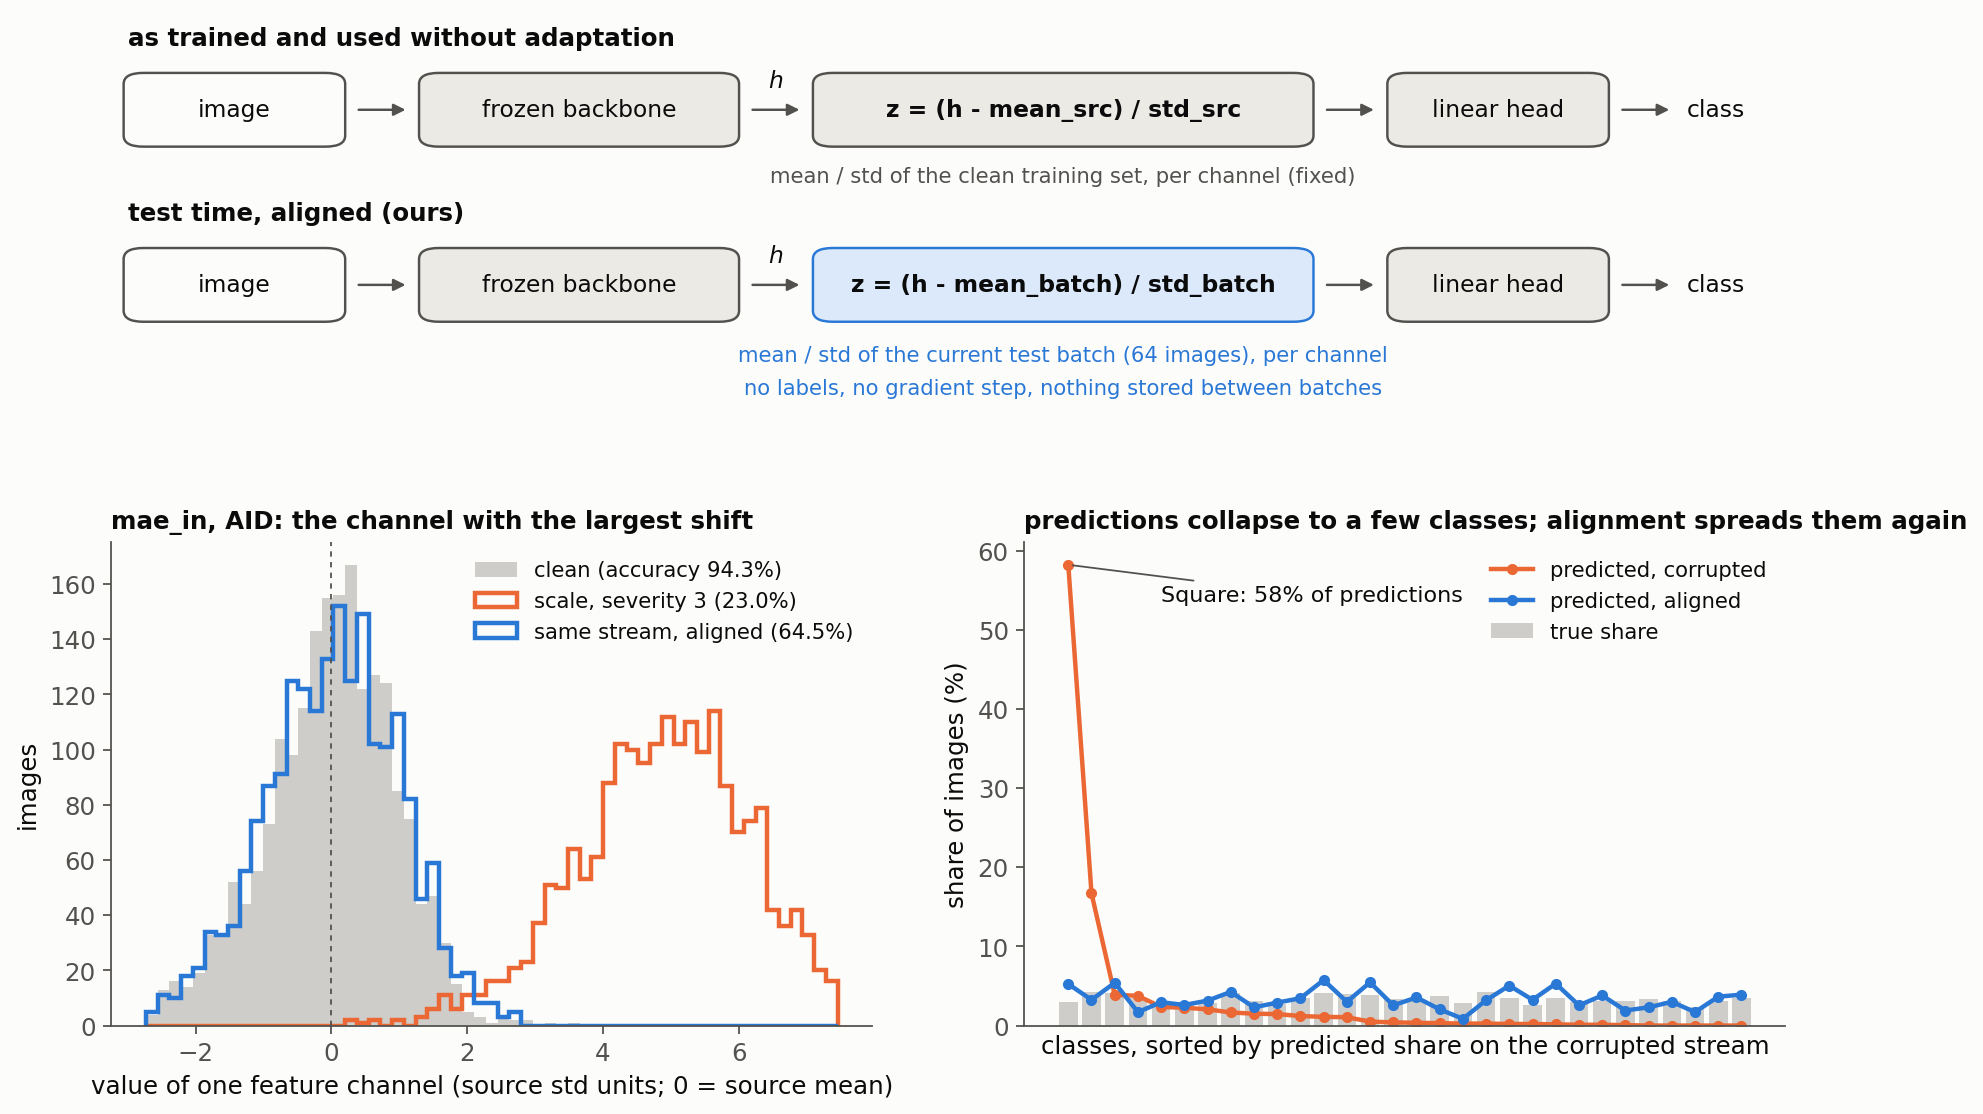
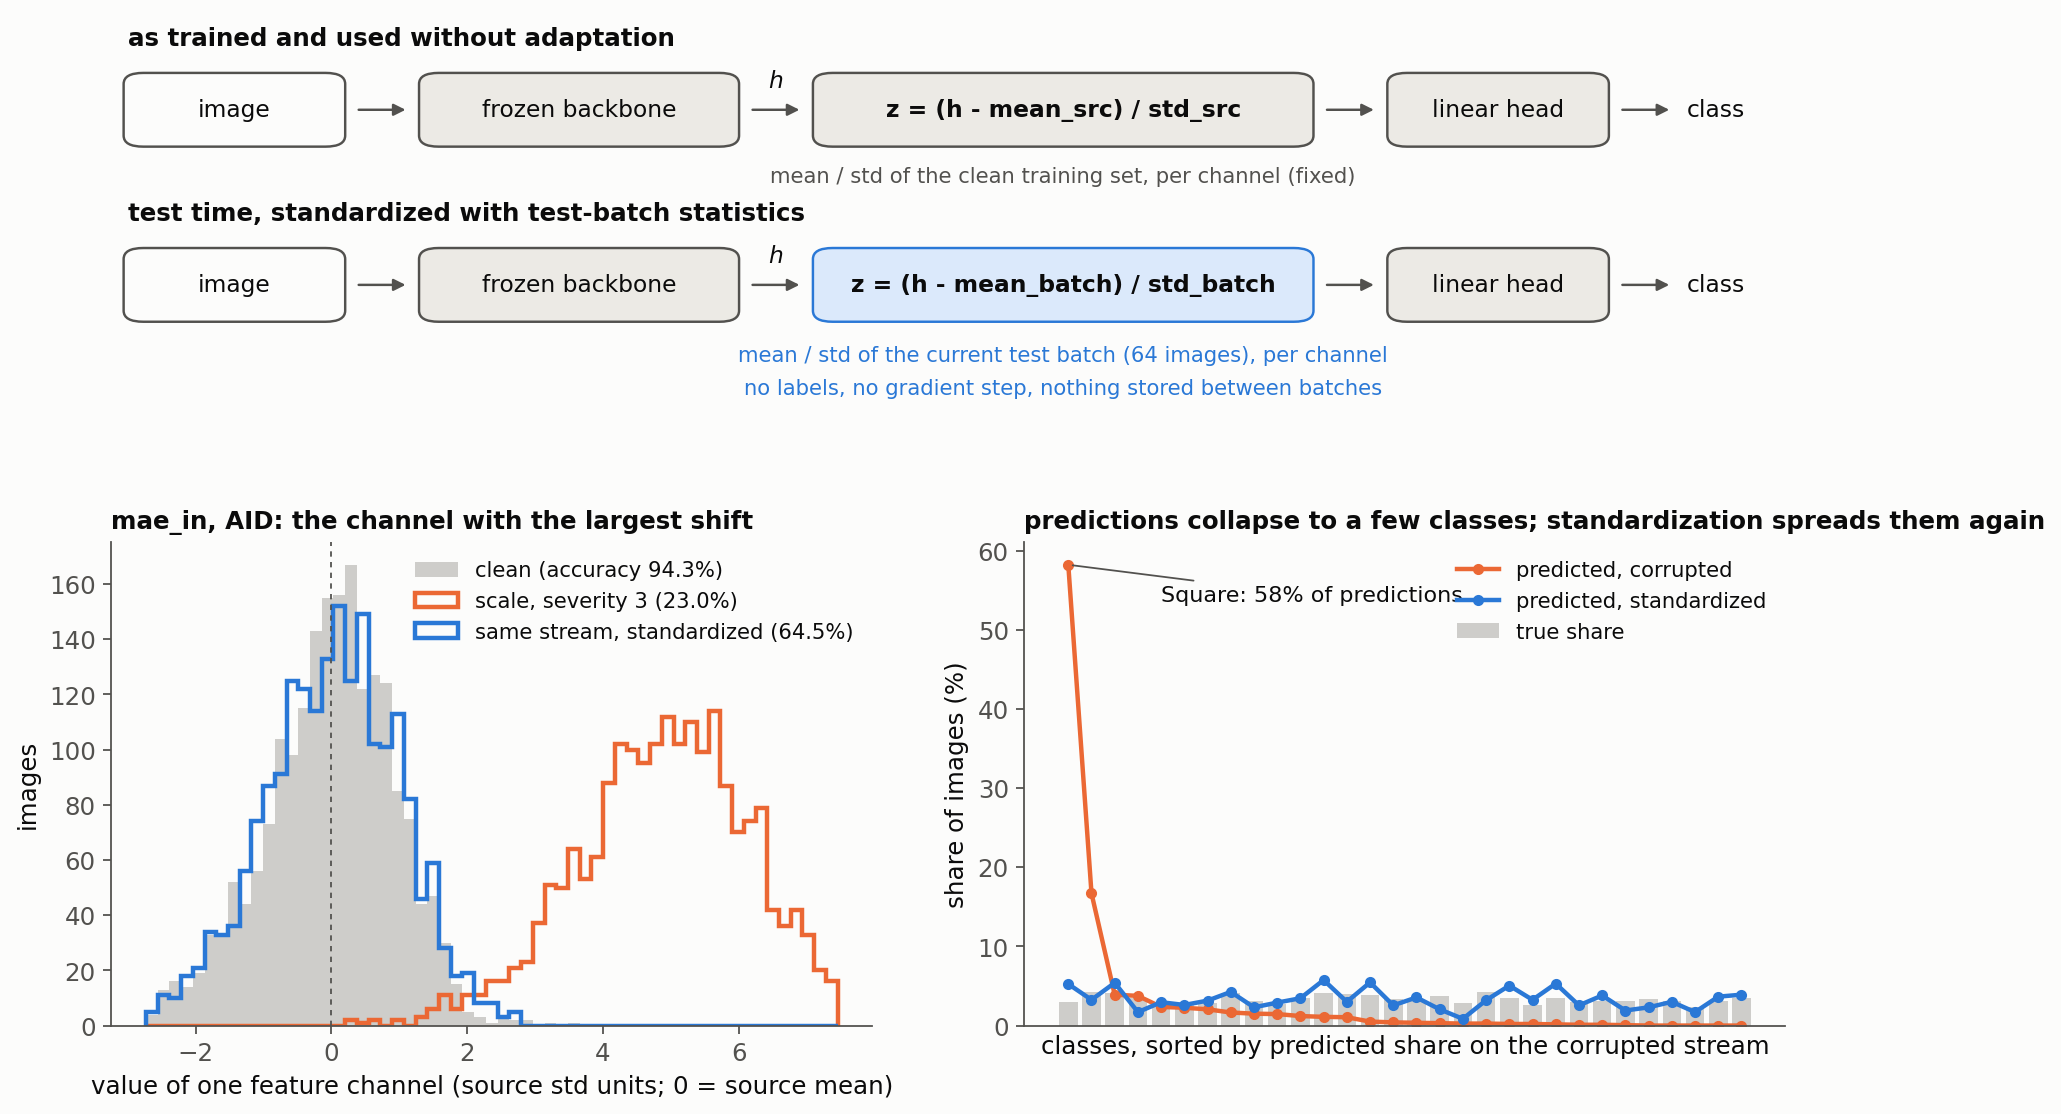
Midterm: name the classification alignment 'head-input standardization' in figures and tables
fig1's green bars are head-input standardization only (no pixel, block or BN alignment);
label and footnote say so. fig9 names the two segmentation alignments by position.
A terminology table in section 4 separates the three alignments.

diff --git a/repro/scripts/analysis/plot_midterm_figs.py b/repro/scripts/analysis/plot_midterm_figs.py
@@ -4,12 +4,12 @@
   fig2_estimation.png     : label-free accuracy estimates vs true accuracy on the 2,040 corrupted streams (T3)
   fig3_signals.png        : confidence vs accuracy and flip vs accuracy, three backbones on RESISC45-C
   fig4_em_phases.png      : entropy minimisation over 2,000 steps, tent vs DSBR: accuracy and predicted classes (T9)
-  fig5_headroom.png       : per corruption: as is -> aligned -> head re-fitted with labels -> clean (T12)
+  fig5_headroom.png       : per corruption: as is -> head-input standardization -> head re-fitted with labels -> clean (T12)
   fig6_pairs.png          : satellite minus generic pretraining for the six matched pairs (T10)
   fig7_blur_aug.png       : drop under Gaussian blur, backbones with / without blur augmentation (T7)
   fig8_corruptions.png    : one AID image under the 12 REOBench corruptions, grouped by acquisition stage (T6)
   fig9_seg.png            : Potsdam mIoU per corruption (12) for none / BN / input / input + BN alignment (T5)
-  fig10_alignment.png     : what head-input alignment does: pipeline, one feature channel, prediction share per class
+  fig10_alignment.png     : what head-input standardization does: pipeline, one feature channel, prediction share per class
   fig11_feature_geometry.png : clean features of two backbones: accuracy by read-out and three 2-D views
   fig12_shift_alignment.png  : clean / corrupted / aligned features along the common shift, two backbones
 Labels are in English (no Korean font on the server). Colours: dataviz reference palette, light surface.
@@ -69,8 +69,8 @@ def save(fig, name):
 
 def fig1():
     M = [("none", "no adaptation", GREY), ("tent", "Tent", ORANGE), ("sar", "SAR", ORANGE), ("eata", "EATA", ORANGE),
-         ("dsbr", "DSBR", BLUE), ("flipf", "flip filter", BLUE), ("none_al", "alignment only (no learning)", AQUA),
-         ("tent_al", "alignment + Tent", AQUA), ("dsbr_al", "alignment + DSBR", AQUA)]
+         ("dsbr", "DSBR", BLUE), ("flipf", "flip filter", BLUE), ("none_al", "head-input standardization only", AQUA),
+         ("tent_al", "standardization + Tent", AQUA), ("dsbr_al", "standardization + DSBR", AQUA)]
     fig, axes = plt.subplots(1, 2, figsize=(12, 4.6), sharey=True)
     for ax, (ds, title) in zip(axes, DS):
         V = np.array([[json.load(open(E / "2026-11-17_fm_tta" / ds / m / f"{k}.json"))["avg"] for m in ORDER] for k, _, _ in M])
@@ -84,8 +84,12 @@ def fig1():
         ax.set_xlabel("accuracy on corrupted streams (%), dots = 17 backbones"); ax.set_title(title, loc="left")
         ax.tick_params(axis="y", length=0)
     hs = [plt.Rectangle((0, 0), 1, 1, color=c, alpha=0.6, label=n) for n, c in (("entropy-based", ORANGE), ("no confidence used", BLUE),
-                                                                              ("statistics alignment", AQUA))]
+                                                                              ("head-input standardization (no learning)", AQUA))]
     fig.legend(handles=hs, loc="upper center", ncol=3, bbox_to_anchor=(0.5, 1.04))
+    fig.text(0.01, -0.06, "Head-input standardization: the feature that enters the linear head is standardized per channel with the mean / std of the "
+             "current test batch (64 images). Nothing else is changed:\nno input-pixel alignment, no alignment inside the backbone, no BN. "
+             "\"+ Tent\" / \"+ DSBR\": that method updates the backbone norm layers, and predictions use the standardized head input.",
+             ha="left", va="top", fontsize=9.5, color=INK2)
     save(fig, "fig1_methods.png")
 
 
@@ -133,7 +137,7 @@ def fig3():
     for c, m in enumerate(models):
         G = sig(m, "r45"); K = [k for k in G if k != "clean"]
         acc = np.array([G[k]["acc"] for k in K])
-        for r, (key, lab, col) in enumerate((("ac", "mean confidence (%)", ORANGE), ("flip", "flip rate after alignment (%)", BLUE))):
+        for r, (key, lab, col) in enumerate((("ac", "mean confidence (%)", ORANGE), ("flip", "flip rate after head-input standardization (%)", BLUE))):
             x = np.array([G[k][key] for k in K]); ax = axes[r, c]
             ax.scatter(x, acc, s=22, color=col, edgecolors=SURF, linewidths=0.4)
             ax.set_xlabel(lab); ax.set_ylim(0, 100)
@@ -192,7 +196,7 @@ def fig5():
         ax.set_xlim(28, 100); ax.set_xlabel("accuracy (%), mean of 17 backbones, severity 3 and 5"); ax.set_title(title, loc="left")
         ax.grid(axis="x", color=GRID, lw=0.8); ax.set_axisbelow(True)
     hs = [plt.Line2D([], [], marker="o", ls="", ms=7, mfc=GREY, mec=SURF, label="as is"),
-          plt.Line2D([], [], marker="o", ls="", ms=7, mfc=AQUA, mec=SURF, label="alignment (what we use; no labels)"),
+          plt.Line2D([], [], marker="o", ls="", ms=7, mfc=AQUA, mec=SURF, label="head-input standardization (what we use; no labels)"),
           plt.Line2D([], [], marker="o", ls="", ms=7, mfc=BLUE, mec=SURF, label="upper bound, not a method: head re-fitted WITH labels of the corrupted stream")]
     fig.legend(handles=hs, loc="upper center", ncol=3, bbox_to_anchor=(0.5, 1.03), fontsize=10)
     save(fig, "fig5_headroom.png")
@@ -271,14 +275,14 @@ def fig8(cls="Port", sev=3):
 
 def fig9():
     # 12 corruptions (8 released + 4 we generated), grouped by what responds
-    groups = (("input alignment recovers", (("brightness_contrast", "brightness /\ncontrast"), ("haze", "haze"))),
-              ("BN alignment helps", (("gaussian_noise", "Gaussian\nnoise"), ("salt_and_pepper_noise", "salt &\npepper"),
+    groups = (("input-pixel alignment recovers", (("brightness_contrast", "brightness /\ncontrast"), ("haze", "haze"))),
+              ("decoder-BN batch statistics help", (("gaussian_noise", "Gaussian\nnoise"), ("salt_and_pepper_noise", "salt &\npepper"),
                                       ("compression_artifacts", "JPEG"), ("data_gaps", "data\ngaps *"))),
               ("small drop, nothing helps", (("gaussian_blur", "Gaussian\nblur"), ("motion_blur", "motion\nblur"), ("clouds", "clouds"),
                                              ("scale_image", "scale *"), ("rotate", "rotate *"), ("translate_image", "translate *"))))
     cor = [c for _, g in groups for c, _ in g]
     lab = [l for _, g in groups for _, l in g]
-    V = (("none", "no adaptation", GREY), ("bn", "BN alignment", BLUE), ("isa", "input alignment", ORANGE), ("isa_bn", "input + BN alignment", AQUA))
+    V = (("none", "no adaptation", GREY), ("bn", "decoder BN: test-batch statistics", BLUE), ("isa", "input pixels aligned to train statistics", ORANGE), ("isa_bn", "both", AQUA))
     fig, axes = plt.subplots(2, 1, figsize=(15, 6.8), sharex=True)
     for ax, (m, title) in zip(axes, (("satmae_B", "SatMAE"), ("scalemae_B", "Scale-MAE"))):
         d = json.load(open(E / "2026-11-23_seg_signals" / "signals" / f"{m}.json"))
@@ -340,7 +344,7 @@ def fig10(model="mae_in", ds="aid"):
         ax.annotate("", xy=(x1, y + 3.75), xytext=(x0, y + 3.75), arrowprops=dict(arrowstyle="-|>", color=INK2, lw=1.1))
 
     for y, tag, mid, fc, ec in ((28, "as trained and used without adaptation", "z = (h - mean_src) / std_src", "#eceae5", INK2),
-                                (9, "test time, aligned (ours)", "z = (h - mean_batch) / std_batch", "#dbe9fb", BLUE)):
+                                (9, "test time, standardized with test-batch statistics", "z = (h - mean_batch) / std_batch", "#dbe9fb", BLUE)):
         ax.text(0, y + 10.2, tag, fontsize=11, fontweight="bold", color=INK, va="bottom")
         box(0, y, 13, "image", SURF); arrow(13.8, 17.2, y)
         box(18, y, 19, "frozen backbone", "#eceae5"); arrow(37.8, 41.2, y)
@@ -360,7 +364,7 @@ def fig10(model="mae_in", ds="aid"):
     bins = np.linspace(lo, hi, 60)
     ax1.hist(zc[:, j].numpy(), bins=bins, color=GREY, alpha=0.55, label=f"clean (accuracy {ac:.1f}%)")
     ax1.hist(zk[:, j].numpy(), bins=bins, histtype="step", color=ORANGE, lw=2, label=f"{SHORT[cname]}, severity 3 ({a0:.1f}%)")
-    ax1.hist(za[:, j].numpy(), bins=bins, histtype="step", color=BLUE, lw=2, label=f"same stream, aligned ({a1:.1f}%)")
+    ax1.hist(za[:, j].numpy(), bins=bins, histtype="step", color=BLUE, lw=2, label=f"same stream, standardized ({a1:.1f}%)")
     ax1.axvline(0, color=INK2, lw=0.8, ls=(0, (3, 3)))
     ax1.set_xlabel("value of one feature channel (source std units; 0 = source mean)"); ax1.set_ylabel("images")
     ax1.set_title(f"{model}, {ds.upper()}: the channel with the largest shift", loc="left", fontsize=11)
@@ -372,12 +376,12 @@ def fig10(model="mae_in", ds="aid"):
     o = np.argsort(-sk); x = np.arange(nc)
     ax2.bar(x, st[o], width=0.8, color=GREY, alpha=0.55, label="true share")
     ax2.plot(x, sk[o], color=ORANGE, lw=2, marker="o", ms=4, label="predicted, corrupted")
-    ax2.plot(x, sa[o], color=BLUE, lw=2, marker="o", ms=4, label="predicted, aligned")
+    ax2.plot(x, sa[o], color=BLUE, lw=2, marker="o", ms=4, label="predicted, standardized")
     names = sorted(os.listdir(common.TRAIN_DIR))
     ax2.annotate(f"{names[o[0]]}: {sk[o[0]]:.0f}% of predictions", xy=(0, sk[o[0]]), xytext=(4, sk[o[0]] * 0.92), fontsize=10,
                  arrowprops=dict(arrowstyle="-", color=INK2, lw=0.8))
     ax2.set_xlabel("classes, sorted by predicted share on the corrupted stream"); ax2.set_ylabel("share of images (%)")
-    ax2.set_xticks([]); ax2.set_title("predictions collapse to a few classes; alignment spreads them again", loc="left", fontsize=11)
+    ax2.set_xticks([]); ax2.set_title("predictions collapse to a few classes; standardization spreads them again", loc="left", fontsize=11)
     ax2.legend(loc="upper right", fontsize=9.5)
     save(fig, "fig10_alignment.png")
     print(f"fig10: {model} {ds} {cname}_s3 clean {ac:.1f} corrupted {a0:.1f} aligned {a1:.1f} channel {j}")
@@ -478,7 +482,7 @@ def fig12(models=("mae_in", "dinov3_web_l16"), corr="motion_blur", sev=3):
         u2 = torch.linalg.svd(xc - (xc @ u1)[:, None] * u1, full_matrices=False)[2][0]
         B = torch.stack([u1, u2]).T
         pts = [("clean", xc @ B, y, acc(x, y)), (f"{SHORT[corr]}, severity {sev}", (xk - x.mean(0)) @ B, yk, acc(xk, yk)),
-               ("same stream, aligned", (xa - x.mean(0)) @ B, yk, acc(xa, yk))]
+               ("same stream, standardized", (xa - x.mean(0)) @ B, yk, acc(xa, yk))]
         allp = torch.cat([p for _, p, _, _ in pts])
         lim = [(allp[:, k].quantile(0.003).item(), allp[:, k].quantile(0.997).item()) for k in (0, 1)]
         for c, (title, p, yy, a) in enumerate(pts):
